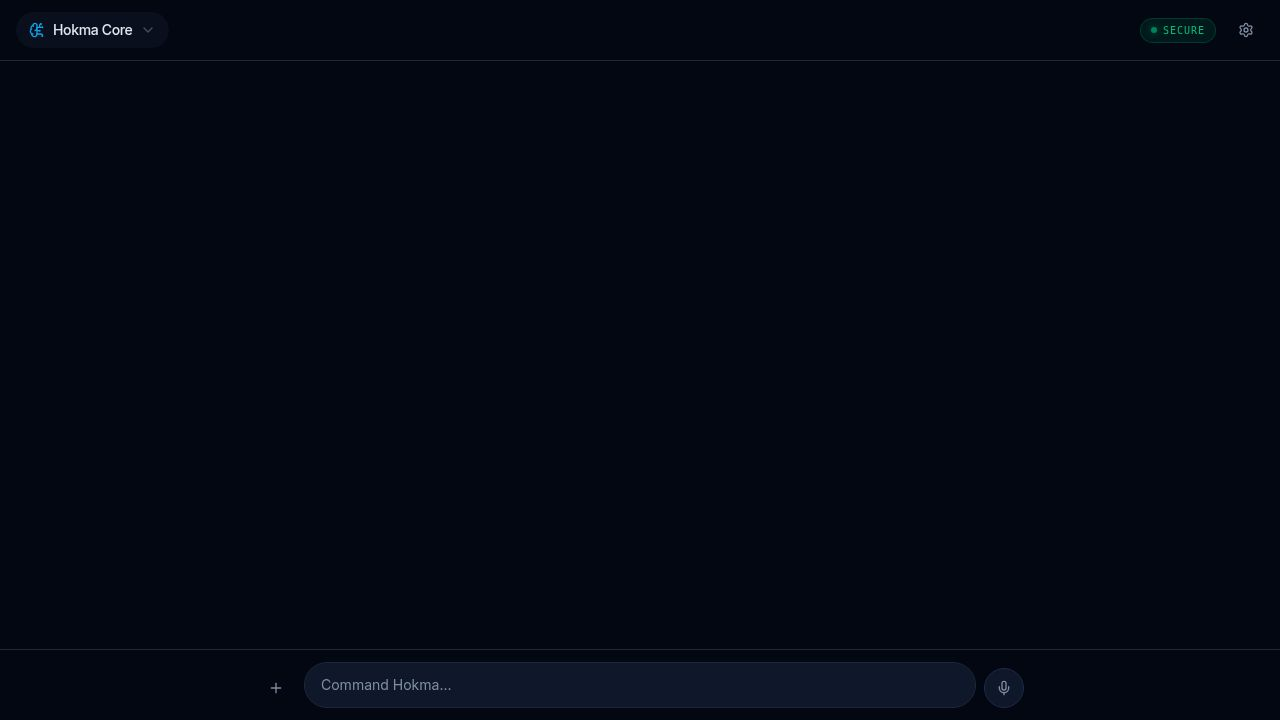
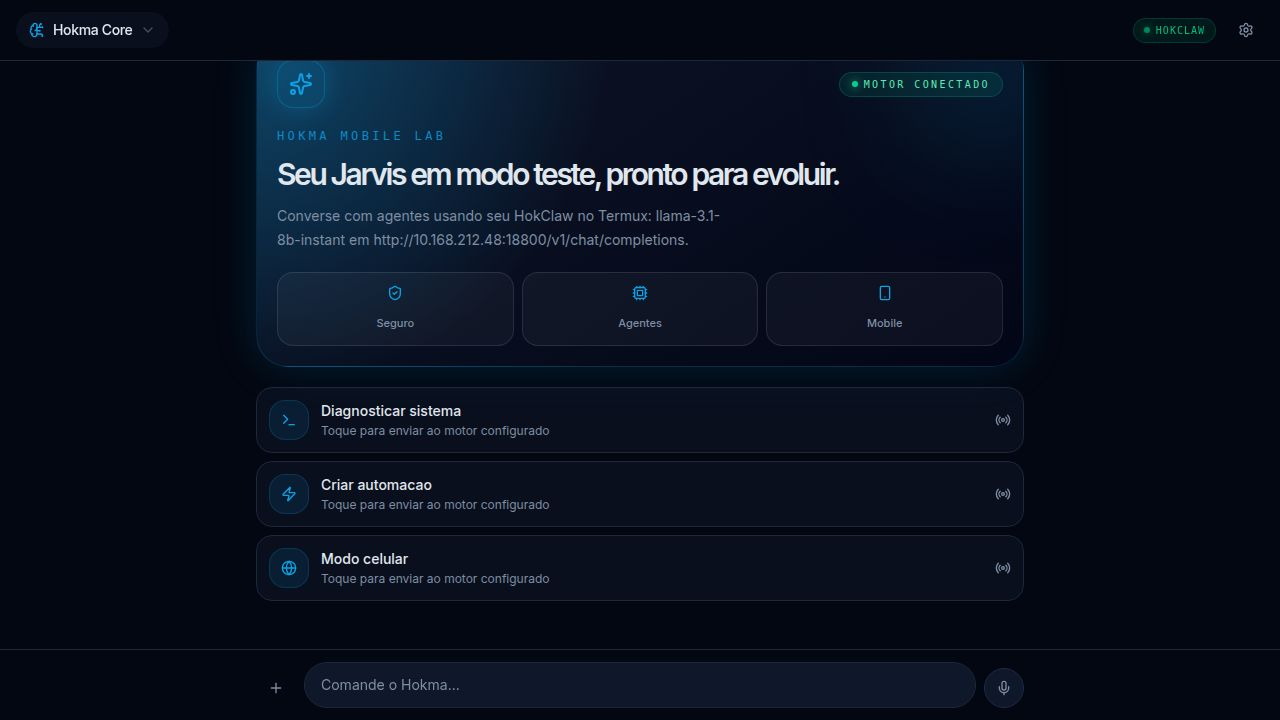
Improve connection testing and error display for mobile users
Update UI to show connection errors and provide a dedicated button for mobile IP endpoints.

Replit-Commit-Author: Agent
Replit-Commit-Session-Id: 51db9ec7-16ce-40f6-afe9-649932f4fb24
Replit-Commit-Checkpoint-Type: full_checkpoint
Replit-Commit-Event-Id: 39320c27-d57e-4db0-97ac-9aa0b1c26278
Replit-Commit-Screenshot-Url: https://storage.googleapis.com/screenshot-production-us-central1/6725270e-0ec7-4f20-9644-4d9ae2854bf1/51db9ec7-16ce-40f6-afe9-649932f4fb24/672KmZu
Replit-Helium-Checkpoint-Created: true

diff --git a/artifacts/hokma-mobile-chat/src/hooks/use-chat.ts b/artifacts/hokma-mobile-chat/src/hooks/use-chat.ts
@@ -28,10 +28,11 @@ export type EngineConfig = {
 export type ConnectionStatus = "idle" | "online" | "offline" | "testing";
 
 const STORE_KEY = "hokma_mobile_engine_config";
+const PHONE_IP_ENDPOINT = "http://10.168.212.48:18800/v1/chat/completions";
 
 const DEFAULT_ENGINE_CONFIG: EngineConfig = {
   mode: "hokclaw",
-  endpoint: "http://localhost:18800/v1/chat/completions",
+  endpoint: PHONE_IP_ENDPOINT,
   model: "llama-3.1-8b-instant",
   apiKey: "",
 };
@@ -47,7 +48,11 @@ function loadEngineConfig(): EngineConfig {
   try {
     const raw = localStorage.getItem(STORE_KEY);
     if (!raw) return DEFAULT_ENGINE_CONFIG;
-    return { ...DEFAULT_ENGINE_CONFIG, ...JSON.parse(raw) };
+    const parsed = { ...DEFAULT_ENGINE_CONFIG, ...JSON.parse(raw) };
+    if (parsed.endpoint.includes("localhost:18800")) {
+      return { ...parsed, endpoint: PHONE_IP_ENDPOINT };
+    }
+    return parsed;
   } catch {
     return DEFAULT_ENGINE_CONFIG;
   }
@@ -70,6 +75,14 @@ function getSystemPrompt(agent: Agent) {
   if (agent.id === "automation") return `${base} Atue como orquestrador de automacoes. Sempre explique permissoes e riscos antes de executar algo sensivel.`;
   if (agent.id === "vision") return `${base} Atue como modulo de visao e contexto visual. Quando nao houver imagem, peca o contexto necessario.`;
   return base;
+}
+
+function getConnectionErrorMessage(error: unknown, endpoint: string) {
+  const rawMessage = error instanceof Error ? error.message : "Erro desconhecido";
+  if (rawMessage === "Failed to fetch" || rawMessage === "NetworkError when attempting to fetch resource.") {
+    return `O navegador nao conseguiu acessar ${endpoint}. Confira se o celular e esta previa estao na mesma rede, se o servidor HokClaw esta ligado na porta 18800 e se ele permite CORS para chamadas do Chrome.`;
+  }
+  return rawMessage;
 }
 
 async function streamPreviewResponse(
@@ -99,6 +112,7 @@ export function useChat() {
   const [activeAgent, setActiveAgent] = useState<Agent>(AGENTS[0]);
   const [engineConfig, setEngineConfigState] = useState<EngineConfig>(() => loadEngineConfig());
   const [connectionStatus, setConnectionStatus] = useState<ConnectionStatus>("idle");
+  const [connectionError, setConnectionError] = useState("");
 
   const updateAssistantMessage = useCallback((messageId: string, content: string) => {
     setMessages((prev) =>
@@ -119,6 +133,7 @@ export function useChat() {
     saveEngineConfig(normalized);
     setEngineConfigState(normalized);
     setConnectionStatus("idle");
+    setConnectionError("");
   }, []);
   
   const sendMessage = useCallback(async (content: string) => {
@@ -191,6 +206,7 @@ export function useChat() {
           throw new Error(`HTTP ${response.status}${errorText ? `: ${errorText.slice(0, 180)}` : ""}`);
         }
 
+        setConnectionError("");
         setConnectionStatus("online");
 
         const contentType = response.headers.get("content-type") || "";
@@ -234,10 +250,12 @@ export function useChat() {
       }
     } catch (error) {
       setConnectionStatus("offline");
-      const message = error instanceof Error ? error.message : "Erro desconhecido";
+      const endpoint = normalizeChatEndpoint(engineConfig.endpoint);
+      const message = getConnectionErrorMessage(error, endpoint);
+      setConnectionError(message);
       updateAssistantMessage(
         astMsgId,
-        `Nao consegui conectar ao motor configurado.\n\nEndpoint: ${normalizeChatEndpoint(engineConfig.endpoint)}\nModelo: ${engineConfig.model}\n\nDetalhe: ${message}\n\nSe estiver usando o Termux no celular, abra esta previa no mesmo celular ou use o IP do aparelho na rede, por exemplo: http://IP_DO_CELULAR:18800/v1/chat/completions. O servidor tambem precisa permitir acesso pelo navegador.`,
+        `Nao consegui conectar ao motor configurado.\n\nEndpoint: ${endpoint}\nModelo: ${engineConfig.model}\n\nDetalhe: ${message}\n\nNo seu caso, use este endpoint: ${PHONE_IP_ENDPOINT}. Se ainda falhar, o servidor HokClaw precisa liberar CORS para chamadas do Chrome.`,
       );
     } finally {
       setMessages(prev => 
@@ -261,10 +279,12 @@ export function useChat() {
 
     if (config.mode === "preview") {
       setConnectionStatus("online");
+      setConnectionError("");
       return true;
     }
 
     setConnectionStatus("testing");
+    setConnectionError("");
     try {
       const headers: Record<string, string> = {
         "Content-Type": "application/json",
@@ -287,9 +307,11 @@ export function useChat() {
 
       if (!response.ok) throw new Error(`HTTP ${response.status}`);
       setConnectionStatus("online");
+      setConnectionError("");
       return true;
-    } catch {
+    } catch (error) {
       setConnectionStatus("offline");
+      setConnectionError(getConnectionErrorMessage(error, normalizeChatEndpoint(config.endpoint)));
       return false;
     }
   }, [engineConfig]);
@@ -315,6 +337,7 @@ export function useChat() {
     engineConfig,
     setEngineConfig,
     connectionStatus,
+    connectionError,
     testConnection,
   };
 }

diff --git a/artifacts/hokma-mobile-chat/src/components/settings-drawer.tsx b/artifacts/hokma-mobile-chat/src/components/settings-drawer.tsx
@@ -19,14 +19,18 @@ interface SettingsDrawerProps {
   engineConfig: EngineConfig;
   setEngineConfig: (config: EngineConfig) => void;
   connectionStatus: ConnectionStatus;
+  connectionError: string;
   testConnection: (config?: EngineConfig) => Promise<boolean>;
 }
+
+const PHONE_IP_ENDPOINT = "http://10.168.212.48:18800/v1/chat/completions";
 
 export function SettingsDrawer({
   onClearChat,
   engineConfig,
   setEngineConfig,
   connectionStatus,
+  connectionError,
   testConnection,
 }: SettingsDrawerProps) {
   const [draft, setDraft] = useState(engineConfig);
@@ -114,8 +118,16 @@ export function SettingsDrawer({
                   value={draft.endpoint}
                   onChange={(event) => setDraft((current) => ({ ...current, endpoint: event.target.value }))}
                   className="w-full rounded-xl border border-border bg-background px-3 py-2 text-sm text-foreground outline-none focus:border-primary"
-                  placeholder="http://localhost:18800/v1/chat/completions"
+                  placeholder={PHONE_IP_ENDPOINT}
                 />
+                <Button
+                  type="button"
+                  variant="outline"
+                  className="h-8 rounded-full px-3 text-xs"
+                  onClick={() => setDraft((current) => ({ ...current, endpoint: PHONE_IP_ENDPOINT }))}
+                >
+                  Usar IP do celular
+                </Button>
               </div>
 
               <div className="space-y-2">
@@ -162,6 +174,12 @@ export function SettingsDrawer({
                   Testar
                 </Button>
               </div>
+
+              {connectionError && (
+                <div className="rounded-2xl border border-red-500/20 bg-red-500/10 p-3 text-xs leading-5 text-red-200">
+                  {connectionError}
+                </div>
+              )}
             </div>
 
             <div className="space-y-4">

diff --git a/artifacts/hokma-mobile-chat/src/pages/chat.tsx b/artifacts/hokma-mobile-chat/src/pages/chat.tsx
@@ -19,6 +19,7 @@ export default function ChatPage() {
     engineConfig,
     setEngineConfig,
     connectionStatus,
+    connectionError,
     testConnection,
   } = useChat();
 
@@ -58,6 +59,7 @@ export default function ChatPage() {
             engineConfig={engineConfig}
             setEngineConfig={setEngineConfig}
             connectionStatus={connectionStatus}
+            connectionError={connectionError}
             testConnection={testConnection}
           />
         </div>
